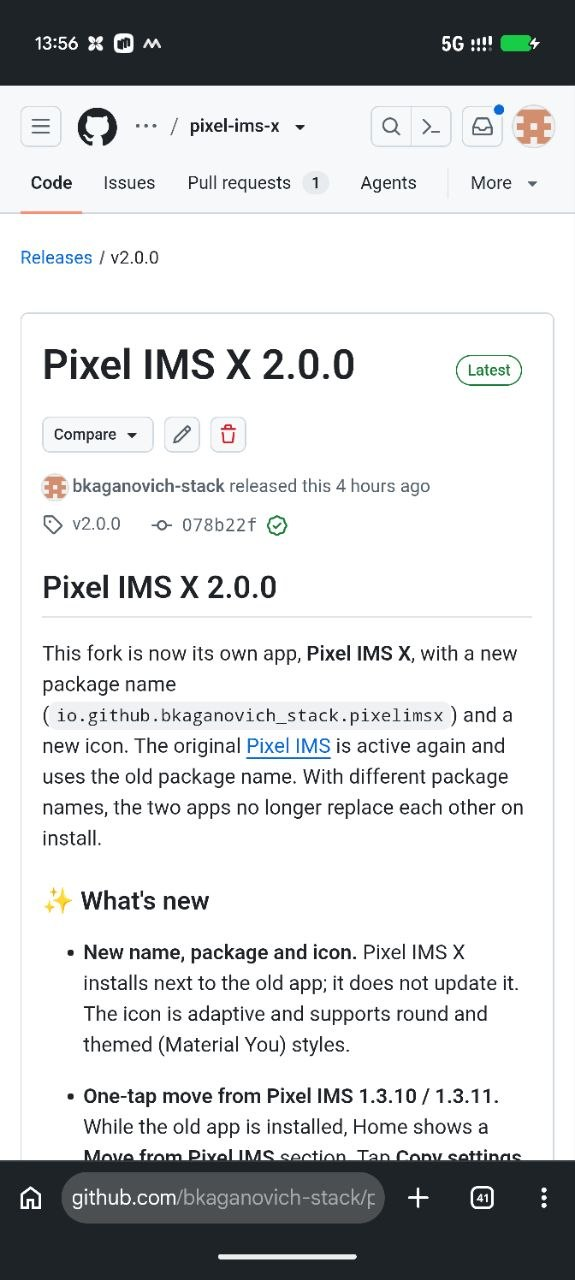
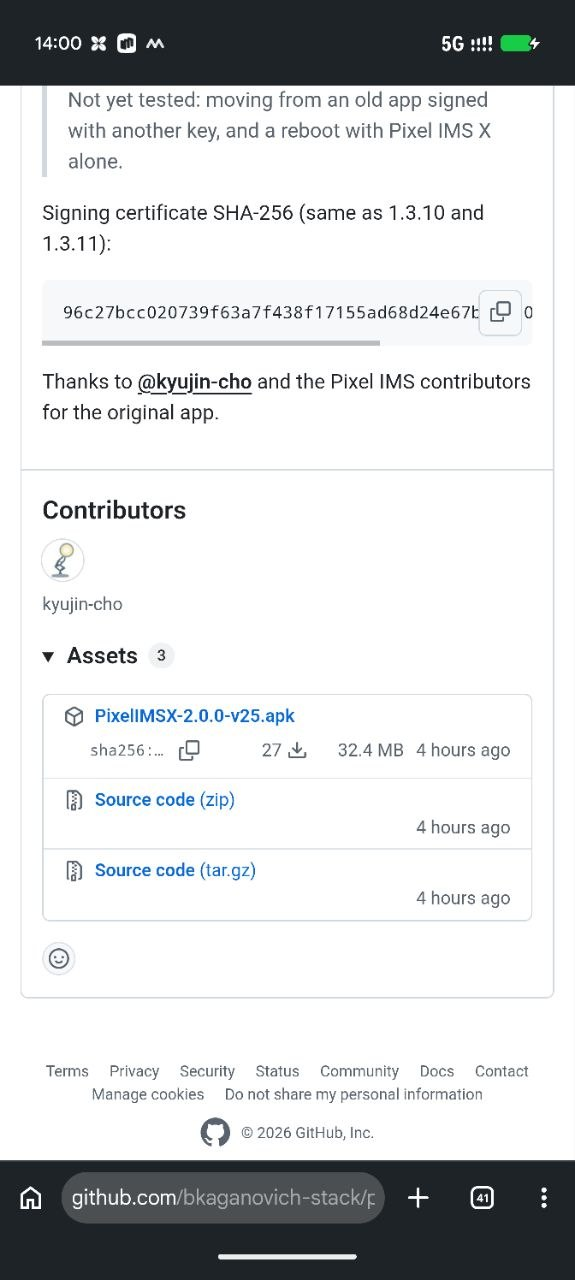
docs: release screenshot shows the Assets block with the 2.0.0 APK

Changed region(s): [[0.0296, 0.0312, 0.9757, 0.9062]]

diff --git a/README.md b/README.md
@@ -45,7 +45,7 @@
 > Если [ShizuStore](https://github.com/timschneeb/ShizuStore) у вас уже установлен, Pixel IMS X можно поставить оттуда: магазин устанавливает приложения через Shizuku и сам следит за обновлениями. Приложение входит в каталог [awesome-shizuku](https://github.com/timschneeb/awesome-shizuku#google-pixel), из которого ShizuStore берёт свой список.
 
 <p align="center">
-  <img src="docs/screenshots/01_github_assets.png" width="260" alt="Страница релиза Pixel IMS X в репозитории pixel-ims-x" />
+  <img src="docs/screenshots/01_github_assets.png" width="260" alt="Скачивание APK из раздела Assets" />
   <img src="docs/screenshots/02_apps_installed.png" width="260" alt="Установленные иконки приложений" />
 </p>
 

diff --git a/README.en.md b/README.en.md
@@ -48,7 +48,7 @@ The app works through the standard system API `CarrierConfigManager`, using the 
 > If you already have [ShizuStore](https://github.com/timschneeb/ShizuStore), you can install Pixel IMS X from there: the store installs apps through Shizuku and keeps them up to date. The app is listed in [awesome-shizuku](https://github.com/timschneeb/awesome-shizuku#google-pixel), the catalog ShizuStore builds its list from.
 
 <p align="center">
-  <img src="docs/screenshots/01_github_assets.png" width="260" alt="Pixel IMS X release page in the pixel-ims-x repository" />
+  <img src="docs/screenshots/01_github_assets.png" width="260" alt="Downloading the APK from Assets" />
   <img src="docs/screenshots/02_apps_installed.png" width="260" alt="Installed app icons" />
 </p>
 
